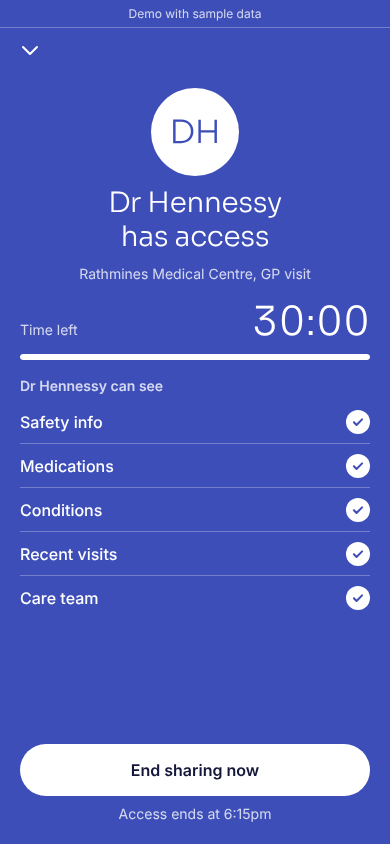
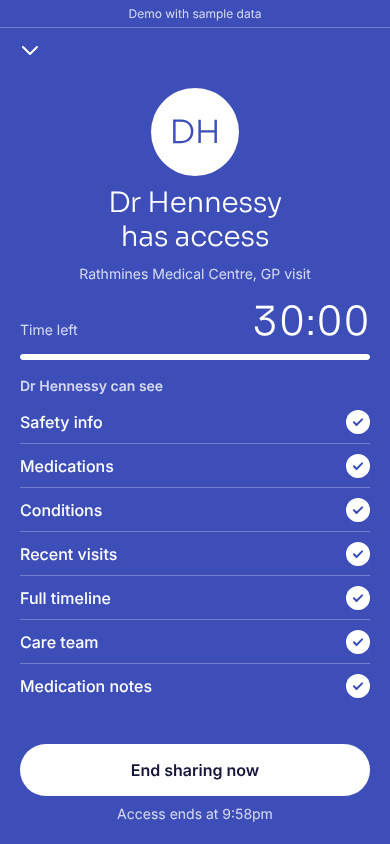
Phase 10: board drift on the phone screens: demo strip 28px plus its hairline, Record's timeline link 14px under the card, CodeA2's top gap and 52px rows, sheets with the boards' 12px spacing and pinned actions, 60px timeline and provider rows, Insurance's manual link as text; a patient screenshots 
- BottomSheet keeps its actions outside the part that scrolls, so a long access request (the owner's defaults add Full timeline and Medication notes) shows Allow and Deny without scrolling
- tests/e2e/patient-screens.spec.ts (opt-in, E2E_SCREENS=1) writes the 390 x 844 screenshots through the real share loop

Claude-Session: https://claude.ai/code/session_01FRtyhMeibtUoNgMksiLjAn

diff --git a/tests/e2e/patient-screens.spec.ts b/tests/e2e/patient-screens.spec.ts
@@ -1,0 +1,113 @@
+import { expect, test } from "@playwright/test";
+import path from "node:path";
+import { newDoctor, submitCode } from "../helpers/doctor";
+import { clientFor, deleteUser, reseed, signInDemo, statePath } from "./helpers/patient";
+
+/**
+ * Screenshots of the redesigned patient app at the boards' size (390 x 844),
+ * against the real database, for comparison with the phone boards (MainA2,
+ * RecordA2, ShareA2, CodeA2, ApproveA2, SessionA2, MedsA2, MedDetailA2,
+ * TimelineA2, FamilyA2, InsuranceA2). The sharing screens go through the real
+ * loop with a doctor in a second browser. Opt-in: E2E_SCREENS=1 (they
+ * overwrite the files in docs/redesign/screens/after/). Phone project only,
+ * one demo sign-in.
+ */
+
+const OUT = path.resolve(__dirname, "../../docs/redesign/screens/after");
+const SIZE = { width: 390, height: 844 };
+
+test.skip(({ viewport }) => (viewport?.width ?? 0) >= 1024, "Phone project only");
+test.skip(!process.env.E2E_SCREENS, "Set E2E_SCREENS=1 to write the screenshots");
+
+let file = "";
+
+test.beforeAll(async ({ browser }, info) => {
+  file = statePath(`screens-${info.project.name}`);
+  await signInDemo(browser, file, info.project.use.baseURL!);
+});
+
+test.afterAll(async () => {
+  await deleteUser(file);
+});
+
+test.use({ storageState: async ({}, provide) => provide(file), viewport: SIZE });
+
+test("phone screens at 390 x 844", async ({ page, browser }) => {
+  test.setTimeout(240_000);
+  await reseed(clientFor(file));
+  const shot = async (name: string) => {
+    await page.waitForTimeout(500);
+    // The development build's corner badge is not part of the screen.
+    await page.addStyleTag({ content: "nextjs-portal { display: none !important; }" });
+    await page.screenshot({ path: path.join(OUT, `${name}.png`) });
+  };
+  const h1 = (name: string | RegExp) => page.getByRole("heading", { level: 1, name });
+
+  await page.goto("/home");
+  await expect(h1(/Jane/)).toBeVisible({ timeout: 20_000 });
+  await expect(page.getByRole("link", { name: /Share record/ })).toBeVisible();
+  await shot("home");
+
+  await page.goto("/record?tab=family");
+  await expect(h1("Record")).toBeVisible();
+  await expect(page.getByText("7 relatives")).toBeVisible();
+  await shot("record");
+
+  await page.goto("/meds");
+  await expect(h1("Medications")).toBeVisible();
+  await expect(page.getByRole("link", { name: /^Concerta/ })).toBeVisible();
+  await shot("medications");
+  await page.getByRole("radio", { name: "Past" }).click();
+  await expect(page.getByRole("link", { name: /^Doxycycline/ })).toBeVisible();
+  await shot("medications-past");
+  await page.getByRole("radio", { name: "Current" }).click();
+  await page.getByRole("link", { name: /^Concerta/ }).click();
+  await expect(h1("Concerta")).toBeVisible();
+  await shot("concerta-detail");
+
+  await page.goto("/record/timeline");
+  await expect(h1("Timeline")).toBeVisible();
+  await expect(page.getByRole("button", { name: /Chest infection/ })).toBeVisible();
+  await shot("full-timeline");
+  await page.getByRole("button", { name: /Chest infection/ }).click();
+  await expect(page.getByRole("dialog", { name: "Chest infection" })).toBeVisible();
+  await page.waitForTimeout(300);
+  await shot("full-timeline-sheet");
+
+  await page.goto("/record/family");
+  await expect(h1("Family history")).toBeVisible();
+  await shot("family-tree");
+
+  await page.goto("/profile/insurance");
+  await expect(h1("Insurance")).toBeVisible();
+  await expect(page.getByRole("button", { name: /VHI/ })).toBeVisible();
+  await shot("insurance-choose");
+  await page.getByRole("button", { name: /VHI/ }).click();
+  await page.getByRole("dialog").getByRole("button", { name: "Continue" }).click();
+  await expect(page.getByText("•••• 4821")).toBeVisible();
+  await shot("insurance-connected");
+
+  // Sharing: confirm, the code, the doctor's request, the session.
+  await page.goto("/home");
+  await page.getByRole("link", { name: /Share record/ }).click();
+  await expect(h1("Share with Dr Hennessy")).toBeVisible();
+  await shot("share-confirm");
+  await page.getByRole("button", { name: "Create share code" }).click();
+  await expect(h1("Share your record")).toBeVisible({ timeout: 15_000 });
+  const code = (await page.getByText(/^Your code:/).textContent())!.replace(/\D/g, "");
+  expect(code).toHaveLength(4);
+  await shot("share-code");
+
+  const doctor = await newDoctor(browser);
+  await submitCode(doctor.page, code);
+  await expect(page.getByRole("dialog", { name: /wants access/ })).toBeVisible({ timeout: 20_000 });
+  await page.waitForTimeout(400);
+  await shot("approve-access");
+  await page.getByRole("button", { name: "Allow access" }).click();
+  await expect(h1("Dr Hennessy has access")).toBeVisible({ timeout: 20_000 });
+  await shot("session-active");
+
+  await page.getByRole("button", { name: "End sharing now" }).click();
+  await page.waitForURL(/\/home/, { timeout: 20_000 });
+  await doctor.context.close();
+});

diff --git a/src/components/ui/BottomSheet.tsx b/src/components/ui/BottomSheet.tsx
@@ -7,8 +7,12 @@ import { IconButton } from "./IconButton";
 /**
  * Bottom sheet (BRIEF.md section 3.9, boards TimelineA2 and ApproveA2): a
  * white panel with 28px top corners, a 40 x 4 grab handle in border-control,
- * a 36px close button at the top right, over the rgba(20,22,58,.45) scrim.
- * It is at most 75% of the viewport tall and its content scrolls. No shadow.
+ * a 36px close button at the top right, over the rgba(20,22,58,.45) scrim
+ * (over session indigo that scrim is ApproveA2's #2A3787 backdrop). 12px
+ * between its parts, 12px above the handle and 24px below, as both boards.
+ * It is at most 75% of the viewport tall: its content scrolls, and the
+ * `actions` stay pinned under it, so a long access request still shows Allow
+ * and Deny together without scrolling. No shadow.
  *
  * It is a modal <dialog> opened with showModal(), so the browser moves focus
  * in, makes the page behind inert, and returns focus to whatever opened it
@@ -19,7 +23,8 @@ import { IconButton } from "./IconButton";
  * - Escape, the close button and a backdrop tap call `onClose`. Set
  *   `dismissible={false}` when the user must answer with a button (the
  *   access request: Allow or Deny); the close button is then not drawn.
- * - Put the primary actions in `actions`; they sit at the bottom.
+ * - Put the primary actions in `actions`; they sit at the bottom, outside
+ *   the part that scrolls.
  */
 
 export type BottomSheetProps = {
@@ -104,12 +109,13 @@ export function BottomSheet({
         if (dismissible && e.target === ref.current) onClose();
       }}
       className={cn(
-        "m-0 mx-auto mt-auto max-h-[75dvh] w-full max-w-[430px] overflow-y-auto rounded-t-sheet bg-surface p-0 text-ink",
-        "backdrop:bg-scrim open:animate-sheet-up",
+        "m-0 mx-auto mt-auto max-h-[75dvh] w-full max-w-[430px] overflow-hidden rounded-t-sheet bg-surface p-0 text-ink",
+        // display: only while open, so a closed dialog stays hidden.
+        "backdrop:bg-scrim open:flex open:animate-sheet-up open:flex-col",
         className,
       )}
     >
-      <div className="flex min-h-full flex-col gap-4 px-5 pb-6 pt-3">
+      <div className={cn("flex min-h-0 flex-col gap-3 overflow-y-auto px-5 pt-3", actions ? "pb-1" : "pb-6")}>
         <span aria-hidden="true" className="h-1 w-10 self-center rounded-full bg-border-control" />
         <div className="flex items-start justify-between gap-3">
           <div className="flex min-w-0 flex-col gap-0.5">
@@ -122,8 +128,9 @@ export function BottomSheet({
           {dismissible && <IconButton label="Close" icon="close" iconSize={22} size={36} tone="muted" onClick={onClose} />}
         </div>
         {children}
-        {actions && <div className="flex flex-col items-center gap-1 pt-1">{actions}</div>}
       </div>
+      {/* 16px above the actions (the boards' 12px gap and 4px padding), 24px below. */}
+      {actions && <div className="flex shrink-0 flex-col items-center gap-1 px-5 pb-6 pt-3">{actions}</div>}
     </dialog>
   );
 }

diff --git a/src/app/(patient)/profile/insurance/page.tsx b/src/app/(patient)/profile/insurance/page.tsx
@@ -1,9 +1,10 @@
 "use client";
 
+import Link from "next/link";
 import { useState } from "react";
 import { SessionReady } from "@/components/patient/PatientSession";
 import { BottomSheet } from "@/components/ui/BottomSheet";
-import { Button, ButtonLink } from "@/components/ui/Button";
+import { Button } from "@/components/ui/Button";
 import { Card } from "@/components/ui/Card";
 import { Icon } from "@/components/ui/Icon";
 import { ListRow } from "@/components/ui/ListRow";
@@ -93,9 +94,13 @@ function Choose({ onConnected }: { onConnected: () => void }) {
           <ListRow title="Other provider" chevron href="/profile/insurance/manual?other=1" height={60} />
         </li>
       </Card>
-      <ButtonLink href="/profile/insurance/manual" variant="text" className="w-fit">
+      {/* InsuranceA2 sets this link as a 22px line of text; hit-area keeps the 44px tap target. */}
+      <Link
+        href="/profile/insurance/manual"
+        className="hit-area w-fit text-label leading-5.5 font-semibold text-accent transition-colors duration-150 ease-out hovered:text-accent-alt"
+      >
         Enter policy details manually
-      </ButtonLink>
+      </Link>
       <p className="flex items-center gap-2 text-caption text-ink-2">
         <Icon name="lock" size={18} />
         Read only. You can disconnect any time.

diff --git a/src/app/(patient)/record/_components/RecordPanel.tsx b/src/app/(patient)/record/_components/RecordPanel.tsx
@@ -158,7 +158,8 @@ function TimelineTab({ entries, current }: { entries: RecordEntry[]; current?: s
     );
   }
   return (
-    <>
+    // RecordA2: the card and "View full timeline" are 14px apart (the board's column gap).
+    <div className="flex flex-col gap-3.5">
       <Card as="ul">
         {entries.map((e) => (
           <li key={e.id}>
@@ -186,7 +187,7 @@ function TimelineTab({ entries, current }: { entries: RecordEntry[]; current?: s
       >
         View full timeline
       </ButtonLink>
-    </>
+    </div>
   );
 }
 
@@ -258,7 +259,8 @@ function FamilyTab({ relatives }: { relatives: Relative[] }) {
             </li>
           ))}
           <li>
-            <AddLink href="/record/family?add=relative" className="w-full py-2.5">
+            {/* RecordA2 draws this row 40px tall (10px padding); 44 keeps the phone's touch target. */}
+            <AddLink href="/record/family?add=relative" height={44} className="w-full">
               Add a relative
             </AddLink>
           </li>

diff --git a/src/components/ui/ListRow.tsx b/src/components/ui/ListRow.tsx
@@ -114,7 +114,8 @@ export function ListRow({
   const classes = cn(
     "flex w-full items-center text-left text-ink",
     gap === 12 ? "gap-3" : "gap-3.5",
-    padY ? padYClasses[padY] : height === 60 ? "min-h-15" : "min-h-16 py-2",
+    // InsuranceA2's 60 includes the row's divider, which a divided card draws on the <li>.
+    padY ? padYClasses[padY] : height === 60 ? "min-h-14.75" : "min-h-16 py-2",
     (href || onClick) && "transition-colors duration-150 ease-out hovered:text-accent-alt",
     current && CURRENT_BAR,
     className,
@@ -188,7 +189,8 @@ export function YearRow({
     </>
   );
   const classes = cn(
-    "grid min-h-15 w-full grid-cols-[52px_1fr_20px] items-center gap-x-2 py-2 text-left text-ink",
+    // 60px with the divider on the board; in a divided card the divider sits on the <li>, so 59 here.
+    "grid min-h-14.75 w-full grid-cols-[52px_1fr_20px] items-center gap-x-2 py-2 text-left text-ink",
     selected && CURRENT_BAR,
     className,
   );

diff --git a/src/components/patient/SharedSummaryCard.tsx b/src/components/patient/SharedSummaryCard.tsx
@@ -41,10 +41,14 @@ export function SharedSummaryCard({
         ) : (
           <ul className="divide-y divide-on-session-border">
             {rows.map((r) => (
-              <li key={r.label} className="flex min-h-11 items-center justify-between gap-3 py-1.5">
+              <li
+                key={r.label}
+                // CodeA2's rows with a line under the name are 52px, the line 14/18; SessionA2's are 44px.
+                className={cn("flex items-center justify-between gap-3", r.detail ? "min-h-13 py-1" : "min-h-11 py-1.5")}
+              >
                 <span className="flex min-w-0 flex-col">
                   <span className="text-row font-medium">{r.label}</span>
-                  {r.detail && <span className="text-caption text-on-session-2">{r.detail}</span>}
+                  {r.detail && <span className="text-caption leading-4.5 text-on-session-2">{r.detail}</span>}
                 </span>
                 <SharedMark />
               </li>

diff --git a/src/components/ui/DemoStrip.tsx b/src/components/ui/DemoStrip.tsx
@@ -4,6 +4,7 @@ import { cn } from "@/lib/cn";
 /**
  * "Demo with sample data" (BRIEF.md section 3.2): a 28px strip at the very
  * top of the screen, 12px ink-2 text centred over a border-tabbar hairline.
+ * As on every board, the hairline is under the 28px, so the strip takes 29.
  * On session indigo the text is white at 78% over an on-session hairline.
  *
  * It is the flag's one place: render it only while the app runs on sample
@@ -22,7 +23,7 @@ export function DemoStrip({
   return (
     <p
       className={cn(
-        "flex min-h-7 shrink-0 flex-wrap items-center justify-center gap-x-1.5 border-b px-5 text-micro",
+        "flex min-h-7.25 shrink-0 flex-wrap items-center justify-center gap-x-1.5 border-b px-5 text-micro",
         tone === "session" ? "border-on-session-border text-on-session-2" : "border-border-tabbar text-ink-2",
         className,
       )}

diff --git a/src/components/patient/AccessRequestDetails.tsx b/src/components/patient/AccessRequestDetails.tsx
@@ -45,7 +45,8 @@ export function AccessRequestDetails({
         <h3 className="mb-0.5 text-caption font-semibold text-ink-2">They will see</h3>
         <ul className="divide-y divide-border-row">
           {shared.map((item) => (
-            <li key={item} className="flex h-9 items-center gap-3 text-body">
+            // ApproveA2: 36px rows plus their 1px divider.
+            <li key={item} className="flex h-9.25 items-center gap-3 text-body">
               <span aria-hidden="true" className="flex size-5 shrink-0 items-center justify-center rounded-full bg-accent text-white">
                 <Icon name="tick" size={12} strokeWidth={3.5} />
               </span>

diff --git a/src/app/(patient)/share/code/page.tsx b/src/app/(patient)/share/code/page.tsx
@@ -155,7 +155,8 @@ function CodeBody({
           : null;
 
   return (
-    <div className="flex flex-col gap-4.5 px-5 pb-8">
+    // CodeA2: 18px between the header and the code, as between every group below it.
+    <div className="flex flex-col gap-4.5 px-5 pb-8 pt-4.5">
       <div className="flex flex-col gap-3.5">
         {finished ? (
           <div className="flex flex-col gap-1">
